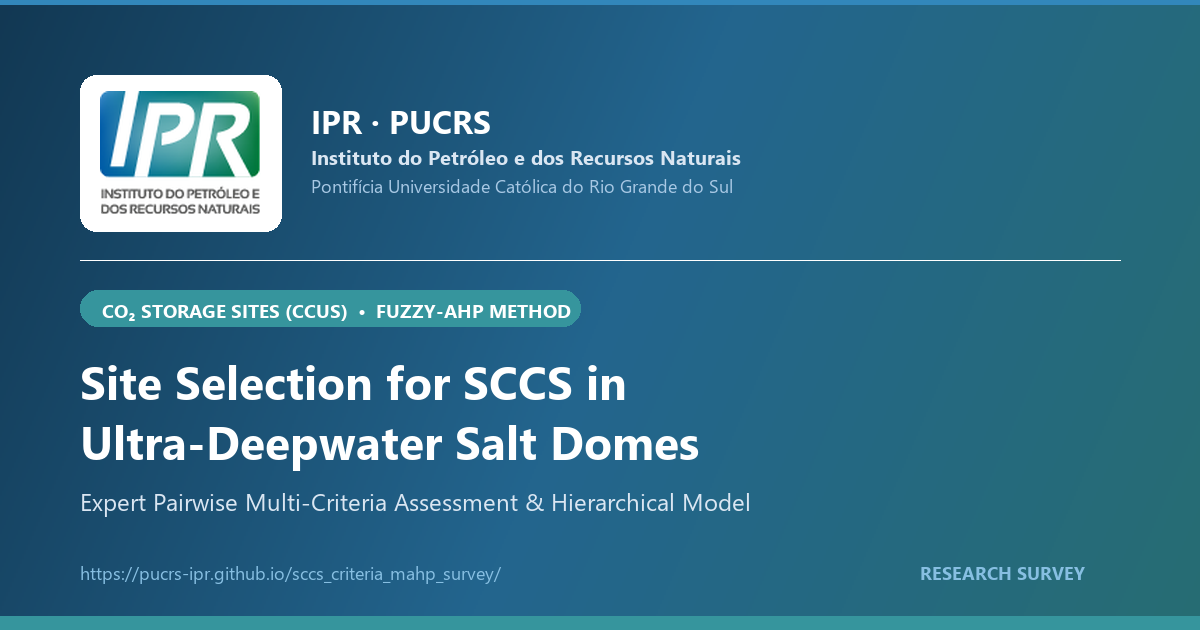
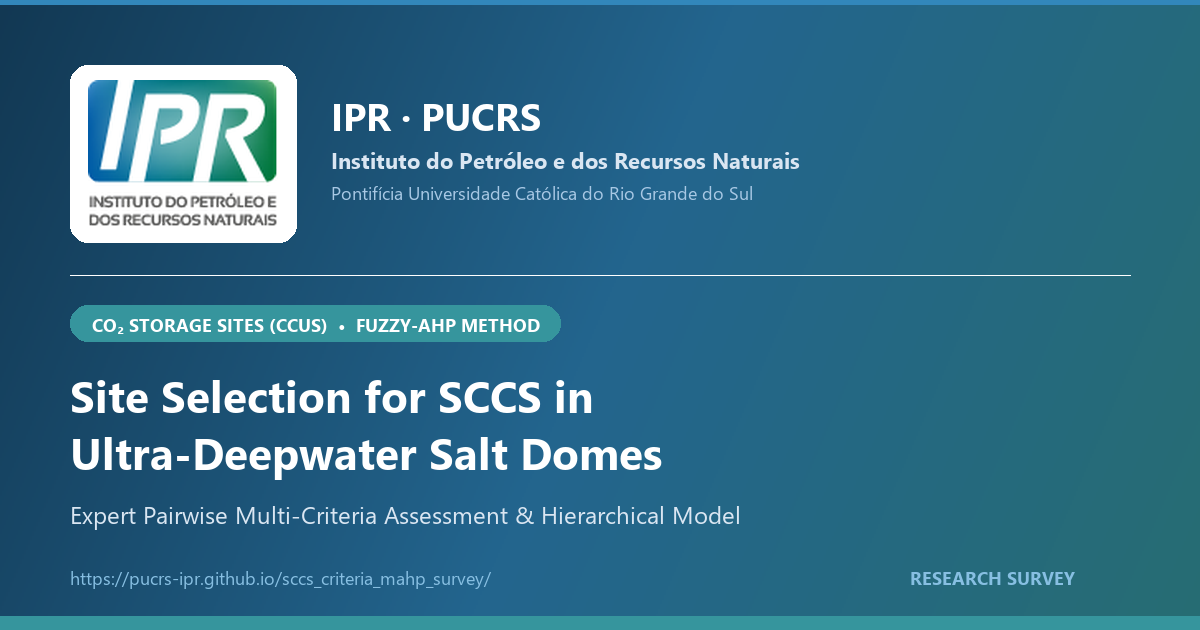
Optimize Open Graph preview, square thumbnail and robots.txt permissions for MS Teams

diff --git a/src/index.html b/src/index.html
@@ -22,13 +22,27 @@
   <meta property="og:title" content="IPR · PUCRS | Site Selection for SCCS in Ultra-Deepwater Salt Domes">
   <meta property="og:description" content="Expert survey conducted by IPR — Instituto do Petróleo e dos Recursos Naturais, PUCRS — for site selection for SCCS in ultra-deepwater salt domes using Fuzzy-AHP.">
   <meta property="og:url" content="https://pucrs-ipr.github.io/sccs_criteria_mahp_survey/">
+  
+  <!-- Open Graph Image (Primary 1200x630 banner) -->
   <meta property="og:image" content="https://pucrs-ipr.github.io/sccs_criteria_mahp_survey/img/og-preview.png">
   <meta property="og:image:secure_url" content="https://pucrs-ipr.github.io/sccs_criteria_mahp_survey/img/og-preview.png">
   <meta property="og:image:type" content="image/png">
   <meta property="og:image:width" content="1200">
   <meta property="og:image:height" content="630">
   <meta property="og:image:alt" content="IPR · PUCRS | Site Selection for SCCS in Ultra-Deepwater Salt Domes — Fuzzy-AHP Survey">
+  
+  <!-- Open Graph Image (Square 600x600 thumbnail specifically for MS Teams compact cards) -->
+  <meta property="og:image" content="https://pucrs-ipr.github.io/sccs_criteria_mahp_survey/img/og-thumb-square.png">
+  <meta property="og:image:secure_url" content="https://pucrs-ipr.github.io/sccs_criteria_mahp_survey/img/og-thumb-square.png">
+  <meta property="og:image:type" content="image/png">
+  <meta property="og:image:width" content="600">
+  <meta property="og:image:height" content="600">
+  <meta property="og:image:alt" content="IPR · PUCRS Logo Thumbnail">
   <meta property="og:locale" content="en_US">
+
+  <!-- Legacy & MS Office / Teams fallback thumbnail hints -->
+  <link rel="image_src" href="https://pucrs-ipr.github.io/sccs_criteria_mahp_survey/img/og-thumb-square.png">
+  <meta name="thumbnail" content="https://pucrs-ipr.github.io/sccs_criteria_mahp_survey/img/og-thumb-square.png">
 
   <!-- Twitter / X Cards -->
   <meta name="twitter:card" content="summary_large_image">
@@ -36,6 +50,22 @@
   <meta name="twitter:description" content="Expert survey conducted by IPR — Instituto do Petróleo e dos Recursos Naturais, PUCRS — for site selection for SCCS in ultra-deepwater salt domes using Fuzzy-AHP.">
   <meta name="twitter:image" content="https://pucrs-ipr.github.io/sccs_criteria_mahp_survey/img/og-preview.png">
   <meta name="twitter:image:alt" content="IPR · PUCRS | Site Selection for SCCS in Ultra-Deepwater Salt Domes">
+
+  <!-- Schema.org JSON-LD for rich snippets and Microsoft Teams unfurlers -->
+  <script type="application/ld+json">
+  {
+    "@context": "https://schema.org",
+    "@type": "WebPage",
+    "name": "IPR · PUCRS | Site Selection for SCCS in Ultra-Deepwater Salt Domes",
+    "description": "Expert survey conducted by IPR — Instituto do Petróleo e dos Recursos Naturais, PUCRS — for site selection for SCCS in ultra-deepwater salt domes using Fuzzy-AHP.",
+    "url": "https://pucrs-ipr.github.io/sccs_criteria_mahp_survey/",
+    "image": [
+      "https://pucrs-ipr.github.io/sccs_criteria_mahp_survey/img/og-preview.png",
+      "https://pucrs-ipr.github.io/sccs_criteria_mahp_survey/img/og-thumb-square.png"
+    ],
+    "thumbnailUrl": "https://pucrs-ipr.github.io/sccs_criteria_mahp_survey/img/og-thumb-square.png"
+  }
+  </script>
 
   <!-- Favicons and Touch Icons -->
   <link rel="icon" type="image/png" sizes="48x48" href="img/ipr-favicon.png">
